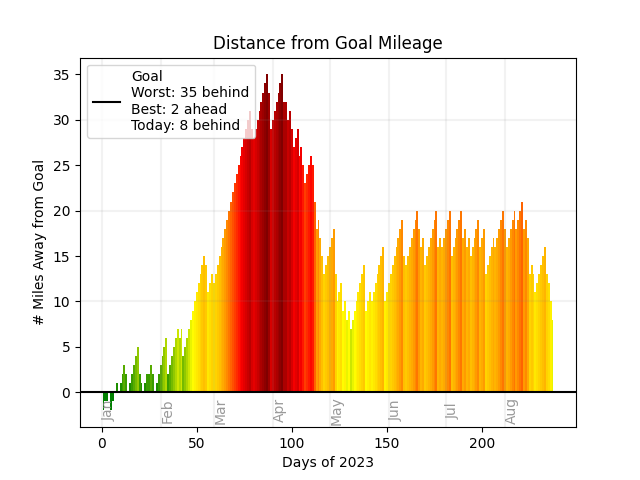
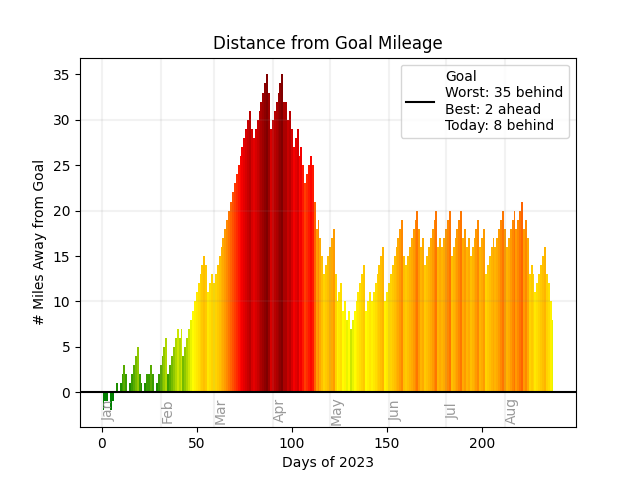
Update for 08/25/2023

Changed region(s): [[0.125, 0.125, 0.4062, 0.3125], [0.6875, 0.125, 0.875, 0.2812], [0.625, 0.1875, 0.6562, 0.2188]]

diff --git a/progress.py b/progress.py
@@ -172,7 +172,7 @@ if plot_difference:
     plt.axhline(0, color='k', label=f'Goal\nWorst: {abs(worst)} {worst_desc}\nBest: {abs(best)} {best_desc}\nToday: {abs(today)} {today_desc}')
     plt.xlabel('Days of 2023')
     plt.ylabel('# Miles Away from Goal')
-    plt.legend(loc='upper left')
+    plt.legend(loc='upper right')
     plt.title("Distance from Goal Mileage")
     plt.savefig(images_path+'delta-miles')
     plt.close()
